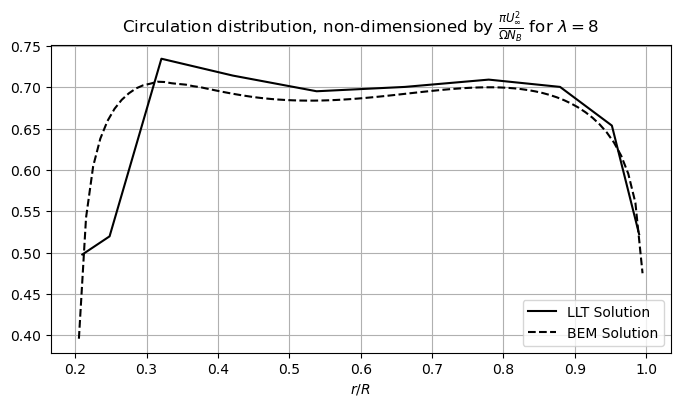
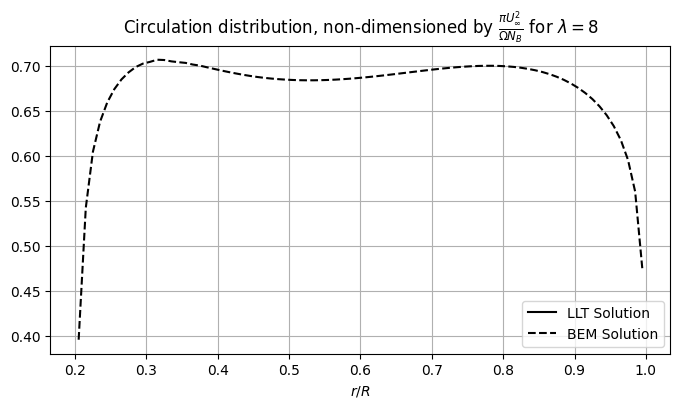
More Figures

diff --git a/main.py b/main.py
@@ -33,7 +33,7 @@ Ncp = 10 # number of segments per blade = number of control points, don't go abo
 psi =  np.pi/11 # np.pi/3 # azimuthal position of the first rotor blade in radians
 Loutlet = 2 # the distance from the rotor to the domain boundary, in rotor diameters
 dx = 0.15 # discretization time step for the vortex ring.
-spacing = 1 # 0 - regular, 1 -  cosine
+spacing = 0 # 0 - regular, 1 -  cosine
 averageFactor = 1 # average the induction factors in radial direction? 0 - no, 1 - yes
 convFac = 0.95 # what part of original guess to take - higher is more stable ,  
 rho = 1.225
